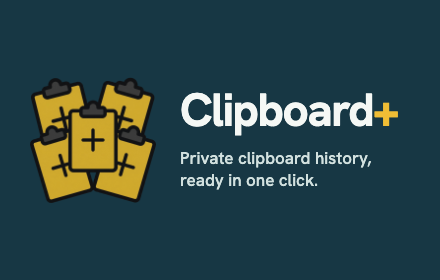
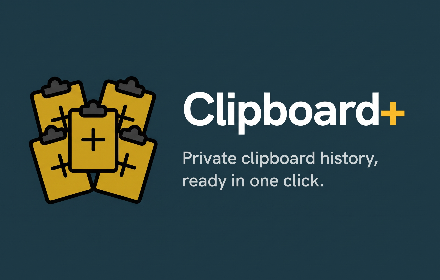
docs: use supplied high-resolution store artwork

diff --git a/README.md b/README.md
@@ -70,7 +70,7 @@ Upgrading from 1.5.0 or 1.5.1 resets the old build-specific Accessibility entry 
 - Without the companion, Chrome internal pages, the Chrome Web Store, browser UI, and desktop applications cannot be captured. The companion sees the resulting system clipboard instead and covers most of those gaps.
 - Incognito access is disabled in the manifest.
 
-The public [privacy policy](https://tonys-coding.github.io/ClipboardPlus/privacy.html), [support page](https://tonys-coding.github.io/ClipboardPlus/support.html), and [data-deletion instructions](https://tonys-coding.github.io/ClipboardPlus/data-deletion.html) are maintained from `docs/`. `npm run assets:store` refreshes the five store screenshots, two promo tiles, and Workspace and Capture Controls previews used by the homepage. `npm run test:site` checks the five public pages at desktop and mobile sizes.
+The public [privacy policy](https://tonys-coding.github.io/ClipboardPlus/privacy.html), [support page](https://tonys-coding.github.io/ClipboardPlus/support.html), and [data-deletion instructions](https://tonys-coding.github.io/ClipboardPlus/data-deletion.html) are maintained from `docs/`. `npm run assets:store` refreshes the five store screenshots, two promo tiles, and Workspace and Capture Controls previews used by the homepage. The promo tiles are cropped and resized from the supplied high-resolution JPEGs in `store-assets/source/` to the Web Store's exact 440×280 and 1400×560 PNG sizes without redrawing the brand or copy. `npm run test:site` checks the five public pages at desktop and mobile sizes.
 
 ## Using the extension
 

diff --git a/CHANGELOG.md b/CHANGELOG.md
@@ -2,6 +2,11 @@
 
 Clipboard+'s Git history was reconstructed from local development milestones after versions 1.0.0 through 1.4.2 had already been built. Those tags preserve the rollout order; their publication timestamps are intentionally not backdated. Releases from 1.5.0 onward follow the live project history.
 
+## Listing artwork update (2026-11-02; extension remains 1.8.5)
+
+- Replace the small and marquee promo tiles with the owner's high-resolution artwork, precisely fitted to the Chrome Web Store's 440×280 and 1400×560 requirements.
+- Keep the supplied source JPEGs and update the asset generator so future refreshes preserve this artwork.
+
 ## 1.8.5
 
 - Make Code classification more conservative: require recognizable syntax instead of generic programming words, brackets, or incidental HTML/CSS/SQL within prose.
